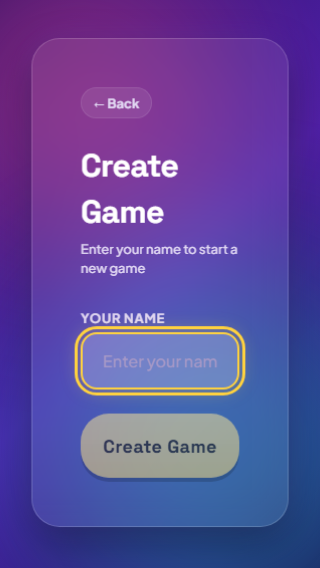
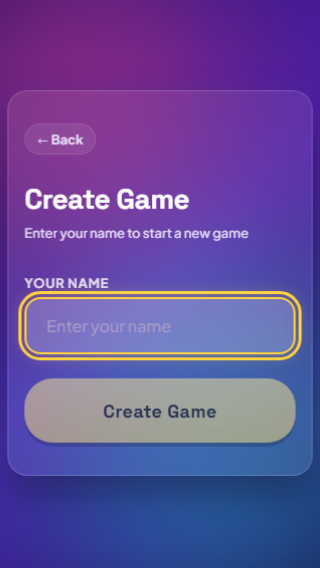
feat(mobile): mobile-first responsive enhancements with 100dvh, safe areas, and compact phone layouts

diff --git a/client/src/pages/GamePage.css b/client/src/pages/GamePage.css
@@ -2,11 +2,15 @@
   display: flex;
   align-items: center;
   justify-content: center;
+  min-height: 100vh;
   min-height: 100dvh;
-  padding: var(--space-md);
-  padding-top: calc(var(--space-md) + var(--safe-top));
-  padding-bottom: calc(var(--space-md) + var(--safe-bottom));
+  padding: var(--space-sm);
+  padding-top: max(var(--space-sm), var(--safe-top));
+  padding-bottom: max(var(--space-sm), var(--safe-bottom));
+  padding-left: max(var(--space-sm), var(--safe-left));
+  padding-right: max(var(--space-sm), var(--safe-right));
   position: relative;
+  width: 100%;
 }
 
 .game-wrapper {
@@ -14,7 +18,7 @@
   max-width: 680px;
   display: flex;
   flex-direction: column;
-  gap: var(--space-md);
+  gap: var(--space-sm);
   animation: cardEntrance 0.5s var(--ease-bounce) both;
 }
 
@@ -595,4 +599,57 @@
   font-size: var(--font-size-base);
   font-weight: 700;
   padding: var(--space-md);
+}
+
+/* Mobile & Touch Responsive Enhancements (Phones 320px - 480px) */
+@media (max-width: 500px) {
+  .game-container {
+    padding: var(--space-xs);
+    padding-top: max(var(--space-xs), var(--safe-top));
+    padding-bottom: max(var(--space-xs), var(--safe-bottom));
+  }
+
+  .game-wrapper {
+    gap: 8px;
+  }
+
+  .question-box {
+    padding: var(--space-md);
+    min-height: 90px;
+    border-radius: var(--radius-lg);
+  }
+
+  .question-title {
+    font-size: clamp(1.05rem, 4vw, 1.25rem);
+    line-height: 1.25;
+  }
+
+  .options-grid {
+    gap: 8px;
+  }
+
+  .option-btn {
+    min-height: 56px;
+    padding: 0.75rem 1rem;
+    font-size: clamp(0.95rem, 3.5vw, 1.1rem);
+    border-radius: var(--radius-lg);
+  }
+
+  .option-badge {
+    width: 32px;
+    height: 32px;
+    font-size: 0.9rem;
+  }
+
+  .countdown-number {
+    font-size: 5rem;
+  }
+
+  .winner-trophy {
+    font-size: 3.5rem;
+  }
+
+  .winner-name {
+    font-size: 2rem;
+  }
 }

diff --git a/client/src/pages/LobbyPage.css b/client/src/pages/LobbyPage.css
@@ -211,20 +211,43 @@
   animation: pulse 2s ease-in-out infinite;
 }
 
-@media (max-width: 375px) {
+@media (max-width: 480px) {
   .lobby {
-    padding: var(--space-md);
+    padding: var(--space-sm);
+    padding-top: max(var(--space-sm), var(--safe-top));
+    padding-bottom: max(var(--space-sm), var(--safe-bottom));
+  }
+
+  .lobby-content {
+    gap: var(--space-md);
   }
 
   .lobby-header {
-    padding: var(--space-xl);
+    padding: var(--space-lg);
+    border-radius: var(--radius-lg);
   }
 
   .lobby-code {
-    font-size: var(--font-size-2xl);
+    font-size: clamp(2rem, 9vw, 2.5rem);
+    letter-spacing: 0.18em;
+    margin-bottom: var(--space-md);
   }
 
   .lobby-share-actions {
     flex-direction: column;
+    width: 100%;
+  }
+
+  .lobby-share-actions .btn {
+    width: 100%;
+  }
+
+  .lobby-players {
+    padding: var(--space-md);
+    border-radius: var(--radius-lg);
+  }
+
+  .player-item {
+    padding: 0.65rem 0.85rem;
   }
 }

diff --git a/client/src/pages/WelcomePage.css b/client/src/pages/WelcomePage.css
@@ -99,12 +99,31 @@
   white-space: nowrap;
 }
 
-@media (max-width: 375px) {
+@media (max-width: 480px) {
   .welcome {
-    padding: var(--space-md);
+    padding: var(--space-sm);
+    padding-top: max(var(--space-sm), var(--safe-top));
+    padding-bottom: max(var(--space-sm), var(--safe-bottom));
+  }
+
+  .welcome-content {
+    gap: var(--space-xl);
+  }
+
+  .welcome-title {
+    font-size: clamp(2.2rem, 11vw, 2.75rem);
+  }
+
+  .welcome-tagline {
+    font-size: 1rem;
   }
 
   .welcome-features {
     gap: 6px;
+  }
+
+  .feature {
+    font-size: 0.75rem;
+    padding: 5px 10px;
   }
 }

diff --git a/client/src/pages/CreatePage.css b/client/src/pages/CreatePage.css
@@ -105,3 +105,20 @@
   20%, 60% { transform: translateX(-6px); }
   40%, 80% { transform: translateX(6px); }
 }
+
+@media (max-width: 480px) {
+  .page-center {
+    padding: var(--space-sm);
+    padding-top: max(var(--space-sm), var(--safe-top));
+    padding-bottom: max(var(--space-sm), var(--safe-bottom));
+  }
+
+  .form-card {
+    padding: var(--space-xl) var(--space-md);
+    border-radius: var(--radius-lg);
+  }
+
+  .form-title {
+    font-size: 1.75rem;
+  }
+}

diff --git a/client/src/index.css b/client/src/index.css
@@ -123,8 +123,11 @@ body {
   font-size: var(--font-size-base);
   color: var(--text);
   line-height: 1.45;
+  min-height: 100vh;
   min-height: 100dvh;
   overflow-x: hidden;
+  overflow-y: auto;
+  -webkit-overflow-scrolling: touch;
   touch-action: manipulation;
   background: linear-gradient(135deg, var(--bg-gradient-start) 0%, var(--bg-gradient-mid) 50%, var(--bg-gradient-end) 100%);
   background-attachment: fixed;
